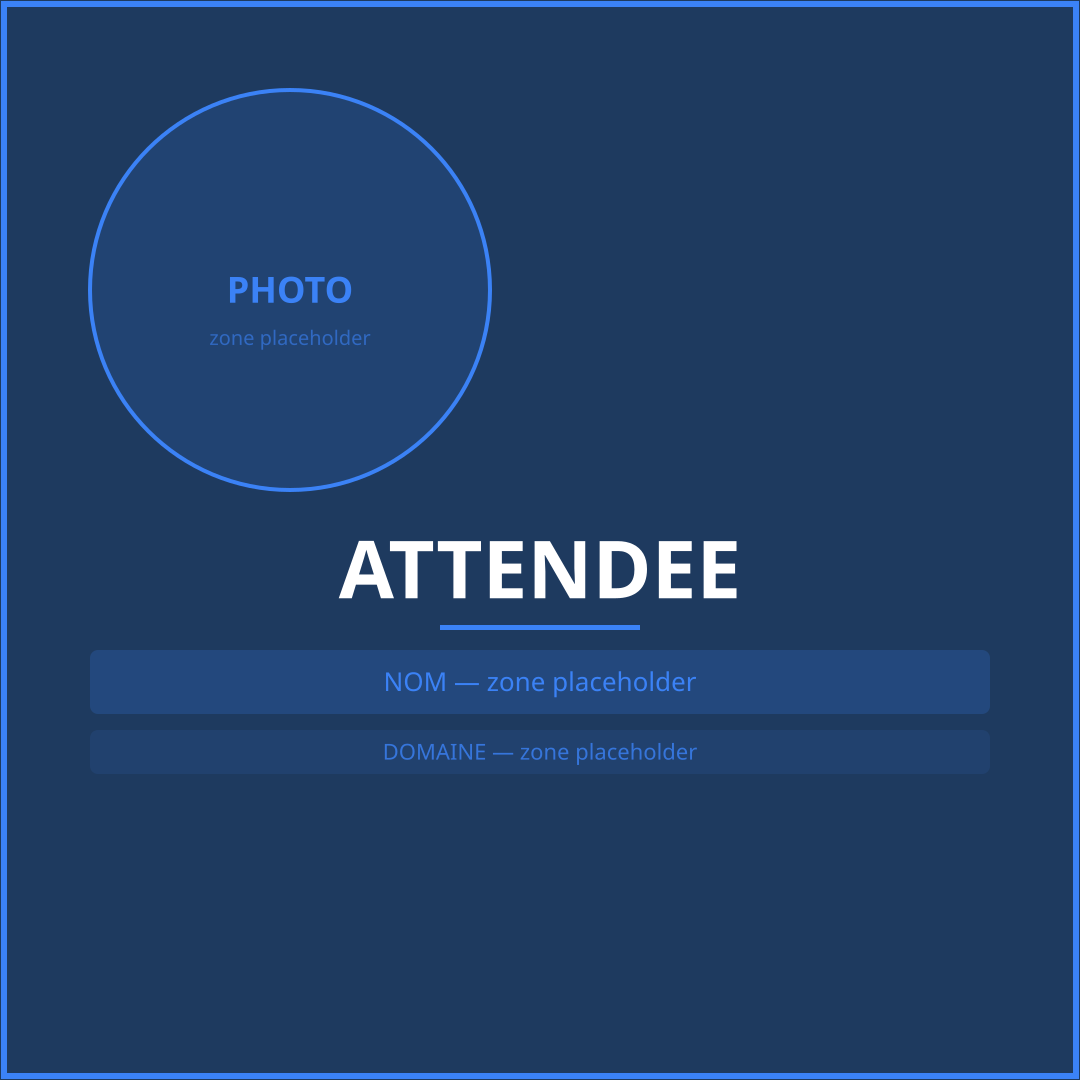
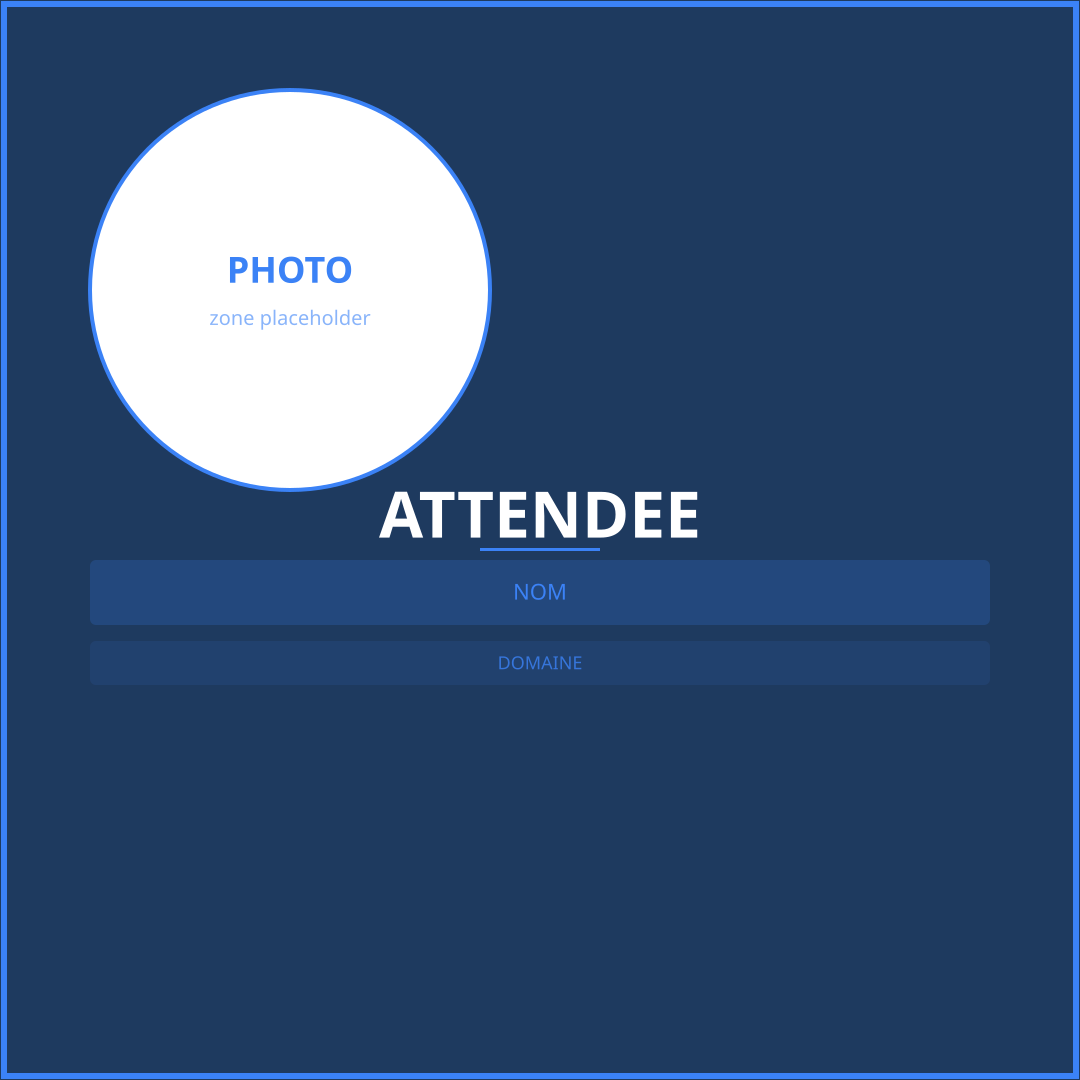
fix: transparent photo zone in templates and dynamic domain Y position

Changed region(s): [[0.0611, 0.0611, 0.9167, 0.7028]]

diff --git a/scripts/generate-placeholders.ts b/scripts/generate-placeholders.ts
@@ -6,6 +6,9 @@ const SIZE = 1080
 const PHOTO_CX = 290
 const PHOTO_CY = 290
 const PHOTO_R = 200
+// These match templates.ts nameText.y and the dynamic domain offset
+const NAME_Y = 560
+const DOMAIN_Y = 641 // NAME_Y + 1 line (65px) + 16px padding
 
 const templates = [
   { name: 'attendee',  bg: '#1E3A5F', accent: '#3B82F6', label: 'ATTENDEE'  },
@@ -20,34 +23,57 @@ void (async () => {
 for (const tmpl of templates) {
   const svg = `
 <svg width="${SIZE}" height="${SIZE}" xmlns="http://www.w3.org/2000/svg">
-  <rect width="${SIZE}" height="${SIZE}" fill="${tmpl.bg}"/>
+  <defs>
+    <!-- Mask cuts a transparent hole in the background for the photo zone -->
+    <mask id="bg-mask">
+      <rect width="${SIZE}" height="${SIZE}" fill="white"/>
+      <circle cx="${PHOTO_CX}" cy="${PHOTO_CY}" r="${PHOTO_R}" fill="black"/>
+    </mask>
+  </defs>
+
+  <!-- Background with transparent hole for photo -->
+  <rect width="${SIZE}" height="${SIZE}" fill="${tmpl.bg}" mask="url(#bg-mask)"/>
+
+  <!-- Border -->
   <rect x="4" y="4" width="${SIZE - 8}" height="${SIZE - 8}"
         fill="none" stroke="${tmpl.accent}" stroke-width="6"/>
+
+  <!-- Photo zone circle outline (shows over photo) -->
   <circle cx="${PHOTO_CX}" cy="${PHOTO_CY}" r="${PHOTO_R}"
-          fill="${tmpl.accent}22" stroke="${tmpl.accent}" stroke-width="4"/>
-  <text x="${PHOTO_CX}" y="${PHOTO_CY}" text-anchor="middle" dominant-baseline="middle"
+          fill="none" stroke="${tmpl.accent}" stroke-width="4"/>
+
+  <!-- Photo label (shown when no photo yet — covered when photo drawn) -->
+  <text x="${PHOTO_CX}" y="${PHOTO_CY - 20}" text-anchor="middle" dominant-baseline="middle"
         font-family="sans-serif" font-size="36" font-weight="bold" fill="${tmpl.accent}">
     PHOTO
   </text>
-  <text x="${PHOTO_CX}" y="${PHOTO_CY + 48}" text-anchor="middle" dominant-baseline="middle"
+  <text x="${PHOTO_CX}" y="${PHOTO_CY + 28}" text-anchor="middle" dominant-baseline="middle"
         font-family="sans-serif" font-size="20" fill="${tmpl.accent}99">
     zone placeholder
   </text>
-  <text x="${SIZE / 2}" y="570" text-anchor="middle" dominant-baseline="middle"
-        font-family="sans-serif" font-size="80" font-weight="bold" fill="#FFFFFF">
+
+  <!-- Type label -->
+  <text x="${SIZE / 2}" y="515" text-anchor="middle" dominant-baseline="middle"
+        font-family="sans-serif" font-size="64" font-weight="bold" fill="#FFFFFF">
     ${tmpl.label}
   </text>
-  <rect x="${SIZE / 2 - 100}" y="625" width="200" height="5" fill="${tmpl.accent}"/>
-  <rect x="90" y="650" width="900" height="64" fill="${tmpl.accent}33" rx="8"/>
-  <text x="${SIZE / 2}" y="682" text-anchor="middle" dominant-baseline="middle"
-        font-family="sans-serif" font-size="26" fill="${tmpl.accent}">
-    NOM — zone placeholder
+
+  <!-- Name zone (matches templates.ts nameText.y=560) -->
+  <rect x="90" y="${NAME_Y}" width="900" height="65" fill="${tmpl.accent}33" rx="6"/>
+  <text x="${SIZE / 2}" y="${NAME_Y + 32}" text-anchor="middle" dominant-baseline="middle"
+        font-family="sans-serif" font-size="22" fill="${tmpl.accent}">
+    NOM
   </text>
-  <rect x="90" y="730" width="900" height="44" fill="${tmpl.accent}1A" rx="8"/>
-  <text x="${SIZE / 2}" y="752" text-anchor="middle" dominant-baseline="middle"
-        font-family="sans-serif" font-size="22" fill="${tmpl.accent}CC">
-    DOMAINE — zone placeholder
+
+  <!-- Domain zone (matches dynamic domain y = name_y + lineHeight + padding) -->
+  <rect x="90" y="${DOMAIN_Y}" width="900" height="44" fill="${tmpl.accent}1A" rx="6"/>
+  <text x="${SIZE / 2}" y="${DOMAIN_Y + 22}" text-anchor="middle" dominant-baseline="middle"
+        font-family="sans-serif" font-size="18" fill="${tmpl.accent}CC">
+    DOMAINE
   </text>
+
+  <!-- Accent line -->
+  <rect x="${SIZE / 2 - 60}" y="${NAME_Y - 12}" width="120" height="3" fill="${tmpl.accent}"/>
 </svg>`
 
   const outPath = path.join(outDir, `${tmpl.name}.png`)

diff --git a/src/lib/generateCard.ts b/src/lib/generateCard.ts
@@ -116,7 +116,9 @@ export async function generateCard(params: GenerateCardParams): Promise<string> 
   ctx.fillStyle = domConf.color
   ctx.textAlign = domConf.align
   ctx.textBaseline = 'top'
-  ctx.fillText(domain, domConf.x, domConf.y)
+  // Y is computed dynamically so domain never overlaps a wrapped name
+  const domainY = nameConf.y + nameLines.length * lineHeight + 16
+  ctx.fillText(domain, domConf.x, domainY)
 
   return canvas.toDataURL('image/png')
 }
